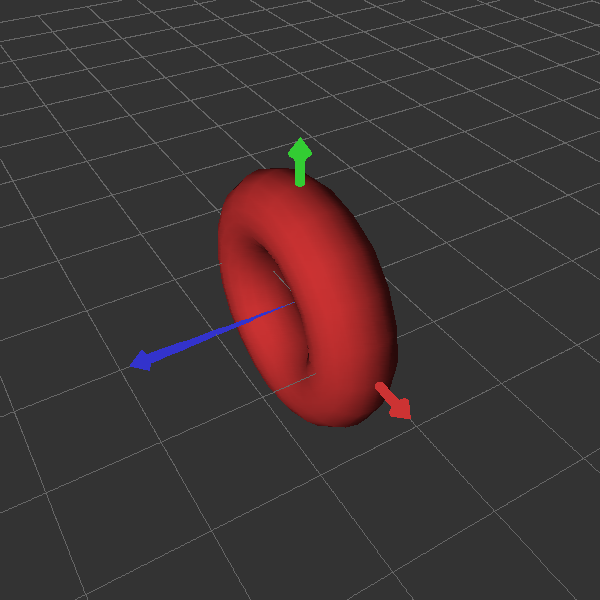
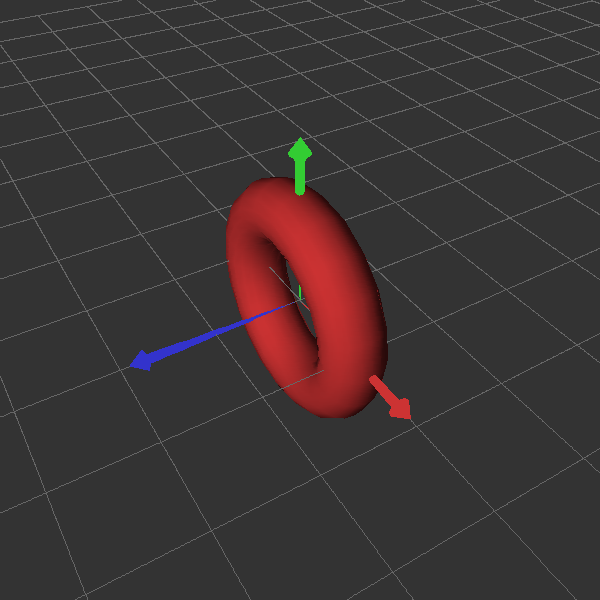
torus progress

Changed region(s): [[0.36, 0.27, 0.69, 0.72], [0.42, 0.36, 0.54, 0.63]]

diff --git a/model/src/modeler/shape/Torus.java b/model/src/modeler/shape/Torus.java
@@ -3,6 +3,7 @@ package modeler.shape;
 import java.util.ArrayList;
 import java.util.List;
 
+import org.w3c.dom.Element;
 import javax.vecmath.Point3f;
 import javax.vecmath.Point3i;
 import javax.vecmath.Vector3f;
@@ -10,11 +11,20 @@ import javax.vecmath.Vector3f;
 public class Torus extends Shape {
 	
 	private transient static Mesh torusMesh;
+
+	// aspect ratio = R / r
+	protected float aspectRatio = 2.333f;
 	
 	/**
 	 * Required for IO
 	 */
 	public Torus() {}
+
+	@Override
+	public void readXMLData(Element node) {
+		super.readXMLData(node);
+		aspectRatio = Float.parseFloat(node.getAttribute("aspectRatio"));
+	}
 
 	/**
 	 * @see modeler.shape.Shape#buildMesh()
@@ -103,26 +113,27 @@ public class Torus extends Shape {
 
 	Point3f[] generateVertices(int numFacets)
 	{	
-		int latitude = numFacets/2+1;		// top/bottom +1 to include both poles
+		int latitude = numFacets+1;			// top/bottom
 		int longitude = numFacets;			// left/right
 		Point3f[][] vertices2D = new Point3f[latitude][longitude];
 
-		double latAngleIncrement = 180.0f / (latitude-1);
+		float R = 1.0f;
+		float r = 0.3f;
+
+		double latAngleIncrement = 360.0f / latitude;
     	double lonAngleIncrement = 360.0f / longitude;
 				
 		for (int i = 0; i < latitude; i++) 
 		{
-			//calc latitude angle from -90 to 90
-			double lat = latAngleIncrement * i - 90.0f;
+			double lat = latAngleIncrement * i;
 
             for (int j = 0; j < longitude; j++) 
 			{
-				//calc longitude angle from -180 to 180
-				double lon = lonAngleIncrement * j - 180.0f;
+				double lon = lonAngleIncrement * j;
 
-				float x = cos(Math.toRadians(lat)) * cos(Math.toRadians(lon));
-				float y = sin(Math.toRadians(lat));
-				float z = -cos(Math.toRadians(lat)) * sin(Math.toRadians(lon));
+				float x = (R + r * cos(Math.toRadians(lon))) * cos(Math.toRadians(lat));
+				float y = (R + r * cos(Math.toRadians(lon))) * sin(Math.toRadians(lat));
+				float z = r * sin(Math.toRadians(lon));
 
                 vertices2D[i][j] = new Point3f(x, y, z);
             }
@@ -138,13 +149,13 @@ public class Torus extends Shape {
         }
 
 		//test output
-		// for (int i = 0; i < vertices2D.length; i++) {
-		// 	for (int j = 0; j < vertices2D[i].length; j++) {
-		// 		System.out.print("(" + vertices2D[i][j].x + ", " + vertices2D[i][j].y + ", " + vertices2D[i][j].z + ") ");
-		// 	}
-		// 	System.out.println("line end");
-		// 	System.out.println();
-		// }
+		for (int i = 0; i < vertices2D.length; i++) {
+			for (int j = 0; j < vertices2D[i].length; j++) {
+				System.out.print("(" + vertices2D[i][j].x + ", " + vertices2D[i][j].y + ", " + vertices2D[i][j].z + ") ");
+			}
+			System.out.println("line end");
+			System.out.println();
+		}
 
 		return vertices;
 	}
@@ -162,25 +173,19 @@ public class Torus extends Shape {
 
 	Point3i[] generateTriangles(int numFacets)
 	{	
-		int latitude = numFacets/2+1;
+		int latitude = numFacets;
         int longitude = numFacets;
 		List<Point3i> triangleList = new ArrayList<>();
 
 		for (int i = 0; i < latitude - 1; i++) {
 			for (int j = 0; j < longitude; j++) {
 				int currentVertex = i * longitude + j;
-				int nextRowVertex = (i + 1) * longitude + j;
+				int nextRowVertex = ((i + 1) % latitude) * longitude + j;
+				int nextColumnVertex = i * longitude + (j + 1) % longitude;
+				int nextRowColumnVertex = ((i + 1) % latitude) * longitude + (j + 1) % longitude;
 	
-				if ((currentVertex + 1) % longitude != 0) 
-				{
-					triangleList.add(new Point3i(currentVertex, currentVertex + 1, nextRowVertex));
-					triangleList.add(new Point3i(currentVertex + 1, nextRowVertex + 1, nextRowVertex));
-				} 
-				else 
-				{
-					triangleList.add(new Point3i(currentVertex, currentVertex - longitude + 1, nextRowVertex));
-					triangleList.add(new Point3i(currentVertex - longitude + 1, nextRowVertex - longitude + 1, nextRowVertex));
-				}
+				triangleList.add(new Point3i(currentVertex, nextRowVertex, nextColumnVertex));
+				triangleList.add(new Point3i(nextRowVertex, nextRowColumnVertex, nextColumnVertex));
 			}
 		}
 
